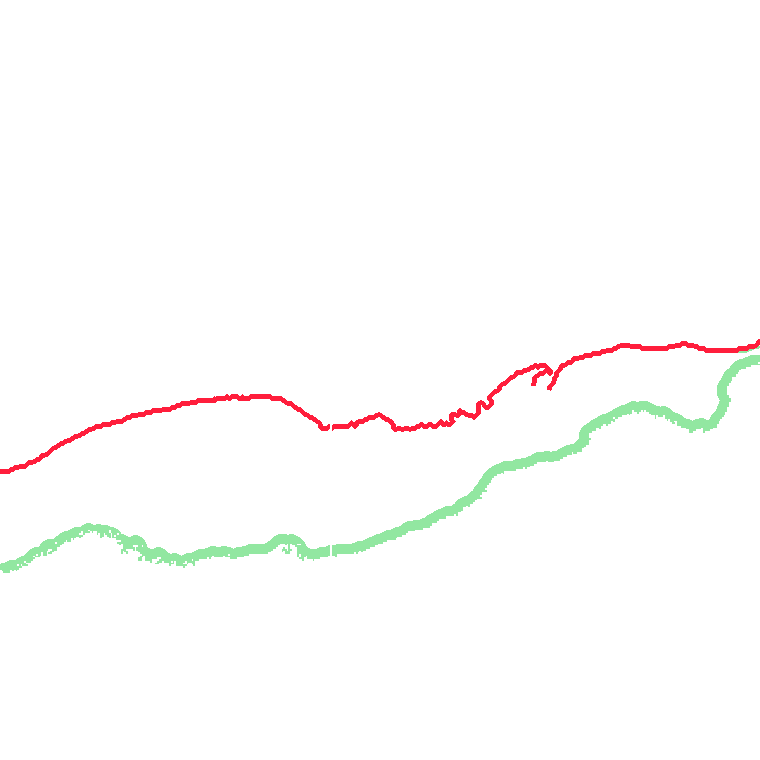
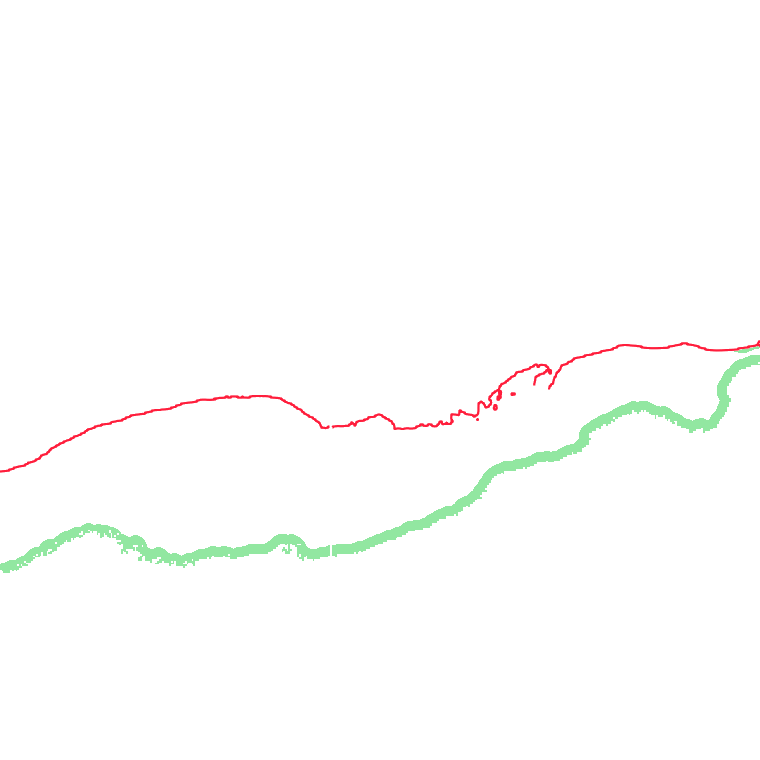
Map: draw the 12 C line as a true contour, not a dilated mask
The dilated pixel-boundary blobbed into solid red masses wherever the bottom is
complex or near-flat at the isotherm depth (the marina at high zoom). Replace it
with a real matplotlib contour of (depth - iso) at 0 — a constant-width isobath
that stays a clean thin line at any zoom. cold_line_reachable -> cold_reachable
(masks only) + isobath_line_rgba (renders the line).

Critical fix found in self-validation: the contour figure's canvas buffer is
opaque white, so compositing it wiped the green band. Now saved transparent so
only the line carries alpha. Red/green area ratio 0.94 (blob) -> 0.17-0.45 (line).
Verified on all four stretches at full and high zoom. Tests updated (+ isobath
transparency/placement). web/data rebuilt.

Claude-Session: https://claude.ai/code/session_0147ZbsWJaurVNbKbmtLAssD

diff --git a/tests/test_overlay.py b/tests/test_overlay.py
@@ -1,12 +1,17 @@
-"""Overlay-mask logic: cold/line/reachable + land-aware shore distance.
+"""Overlay-mask logic: cold/reachable + land-aware (mainland) shore distance.
 
 Synthetic fields (a sloping shore) so the invariants are exact and network-free.
-These pin the two artifact fixes: no fake offshore 'shore', and a 12 C line that
-survives a thin warm strip.
+These pin the artifact fixes: no fake offshore 'shore', reachability only near the
+mainland, castable-depth only. The 12 C line is a rendered contour (isobath_line_rgba)
+verified visually, not asserted here.
 """
 import numpy as np
 
-from tbay_fishcast.features.overlay import cold_line_reachable, land_shore_distance
+from tbay_fishcast.features.overlay import (
+    cold_reachable,
+    isobath_line_rgba,
+    land_shore_distance,
+)
 
 RES = 10.0  # m/px
 
@@ -23,12 +28,10 @@ def test_reachable_is_shallow_nearshore_only():
     depth = _sloping_shore()
     dist, land = land_shore_distance(depth, RES)
     iso = np.full_like(depth, 3.0)
-    cold, line, reach = cold_line_reachable(depth, iso, dist, cast_m=75.0,
-                                            max_reach_depth_m=22.0, min_reach_px=5)
-    # land is the mainland block; nothing reachable on land or in the warm 2 m strip
-    assert not reach[:, :5].any()
-    assert not reach[:, 5].any()               # 2 m warm strip (below the isotherm target)
-    # reachable pixels are cold, within a cast, and shallow
+    cold, reach = cold_reachable(depth, iso, dist, cast_m=75.0,
+                                 max_reach_depth_m=22.0, min_reach_px=5)
+    assert not reach[:, :5].any()              # nothing reachable on land
+    assert not reach[:, 5].any()               # nor in the 2 m warm strip (above target)
     rd = depth[reach]
     assert reach.any()
     assert rd.max() <= 22.0
@@ -39,19 +42,8 @@ def test_no_reachable_in_deep_water():
     depth = _sloping_shore(cols=40)          # extends to ~70 m depth
     dist, _ = land_shore_distance(depth, RES)
     iso = np.full_like(depth, 3.0)
-    _, _, reach = cold_line_reachable(depth, iso, dist, cast_m=75.0, max_reach_depth_m=22.0)
+    _, reach = cold_reachable(depth, iso, dist, cast_m=75.0, max_reach_depth_m=22.0)
     assert depth[reach].max() <= 22.0        # never calls 30 m+ water shore-reachable
-
-
-def test_line_marks_warm_cold_interface_even_thin():
-    depth = _sloping_shore()
-    dist, _ = land_shore_distance(depth, RES)
-    iso = np.full_like(depth, 3.0)
-    _, line, _ = cold_line_reachable(depth, iso, dist)
-    # the 3 m crossing sits between col5 (2 m, warm) and col6 (4 m, cold): the line
-    # marks that interface (thickened to a continuous stroke a few px wide)
-    assert line[:, 6].all()
-    assert not line[:, 12].any()             # not smeared far into deeper cold water
 
 
 def test_tiny_nodata_speck_is_not_land():
@@ -59,16 +51,6 @@ def test_tiny_nodata_speck_is_not_land():
     depth[0, 6] = np.nan                      # a 1 px no-data hole beside shallow water
     _, land = land_shore_distance(depth, RES, min_land_px=12)
     assert not land[0, 6]                      # too small to be shore -> no fake island
-
-
-def test_deep_warm_pinhole_makes_no_line():
-    depth = _sloping_shore()
-    depth[15, 20] = 1.0                        # a warm pinhole deep offshore (surrounded by cold)
-    dist, _ = land_shore_distance(depth, RES)
-    iso = np.full_like(depth, 3.0)
-    _, line, _ = cold_line_reachable(depth, iso, dist)
-    # the pinhole is warm but does not touch shore -> no line ring around it
-    assert not line[14:17, 19:22].any()
 
 
 def test_offshore_island_is_not_mainland_shore():
@@ -86,12 +68,28 @@ def test_offshore_island_is_not_mainland_shore():
     assert shore_main[10, 2] and shore_all[10, 2]   # the mainland is kept either way
 
 
+def test_isobath_line_is_transparent_thin_and_placed():
+    """The 12 C line renders as a THIN contour on a TRANSPARENT background at the
+    iso crossing — not an opaque fill that would wipe the green it's drawn over."""
+    depth = _sloping_shore(rows=60, cols=60)
+    dist = np.zeros((60, 60))
+    for c in range(60):
+        dist[:, c] = abs(c - 4) * RES
+    iso = np.full_like(depth, 3.0)
+    buf = isobath_line_rgba(depth, iso, dist, line_band_m=1000.0)
+    assert buf.shape == (60, 60, 4)
+    drawn = buf[:, :, 3] > 40
+    assert 0 < drawn.sum() < depth.size * 0.1        # a thin line, not a fill
+    assert (buf[:, :, 3] == 0).sum() > depth.size * 0.5   # background transparent
+    cols = np.where(drawn.any(axis=0))[0]
+    assert 4 <= cols.min() and cols.max() <= 8       # at the 3 m crossing (col5->6)
+
+
 def test_speck_removal_drops_isolated_reachable():
     depth = _sloping_shore()
     dist, _ = land_shore_distance(depth, RES)
     iso = np.full_like(depth, 3.0)
-    # force a lone reachable-looking pixel far offshore via a fake near-zero dist point
     dist2 = dist.copy()
     dist2[0, 25] = 0.0                          # 1 isolated in-range pixel in deep water
-    _, _, reach = cold_line_reachable(depth, iso, dist2, min_reach_px=20)
+    _, reach = cold_reachable(depth, iso, dist2, min_reach_px=20)
     assert not reach[0, 25]                     # single speck removed

diff --git a/src/tbay_fishcast/features/overlay.py b/src/tbay_fishcast/features/overlay.py
@@ -70,39 +70,19 @@ def land_shore_distance(depth: np.ndarray, res_m: float, *, shallow_m: float = 2
     return distance_transform_edt(~land) * res_m, land
 
 
-def cold_line_reachable(depth: np.ndarray, iso_field: np.ndarray, dist: np.ndarray, *,
-                        cast_m: float = 75.0, max_reach_depth_m: float = 22.0,
-                        min_reach_px: int = 20, line_band_m: float = 300.0):
-    """(cold, line, reachable) boolean masks for one isotherm field.
+def cold_reachable(depth: np.ndarray, iso_field: np.ndarray, dist: np.ndarray, *,
+                   cast_m: float = 75.0, max_reach_depth_m: float = 22.0,
+                   min_reach_px: int = 20):
+    """(cold, reachable) boolean masks for one isotherm field.
 
-    `dist` is distance to the (mainland) shore. Both products are confined to the
-    nearshore so harbour-interior structures and NONNA artifacts don't render:
-
-    cold      = water at/below the isotherm depth (cold water sits on the bottom).
-    line      = the target-isotherm contour within `line_band_m` of shore: cold pixels
-                bordering shallow WARM water that connects to shore (the real drop-off
-                edge), at any strip width. Not drawn where cold merely runs to shore,
-                nor at the offshore/no-data edge, nor around interpolation pinholes,
-                nor out in the lake interior.
-    reachable = cold within a cast of shore AND shallow enough to shore-fish, tiny
-                isolated specks removed.
+    `dist` is distance to the (mainland) shore. cold = water at/below the isotherm
+    depth (cold water sits on the bottom). reachable = cold within a cast of shore
+    AND shallow enough to shore-fish, with tiny isolated specks removed (fake
+    offshore "shore"). The 12 C LINE is rendered separately as a true contour
+    (`isobath_line_rgba`) so complex bathymetry gives a thin line, not a dilated blob.
     """
     water = np.isfinite(depth)
     cold = water & (depth >= iso_field)
-    warm = water & ~cold
-
-    # warm water that connects to shore (the real nearshore shelf) vs deep pinholes
-    lbl, n = label(warm)
-    shore_warm = np.zeros_like(warm)
-    for c in range(1, n + 1):
-        comp = lbl == c
-        if (binary_dilation(comp) & ~water).any():   # touches land / shore
-            shore_warm |= comp
-    line = cold & binary_dilation(shore_warm, iterations=1) & (dist <= line_band_m)
-    # the raw contour is 1 px wide, so on diagonals it staircases into dots. Thicken
-    # it to a continuous stroke (kept in water so it doesn't bleed onto land).
-    line = binary_dilation(line, iterations=2) & water & (dist <= line_band_m)
-
     reachable = cold & (dist <= cast_m) & (depth <= max_reach_depth_m)
     rl, rn = label(reachable)
     clean = np.zeros_like(reachable)
@@ -110,4 +90,45 @@ def cold_line_reachable(depth: np.ndarray, iso_field: np.ndarray, dist: np.ndarr
         comp = rl == c
         if comp.sum() >= min_reach_px:
             clean |= comp
-    return cold, line, clean
+    return cold, clean
+
+
+def isobath_line_rgba(depth: np.ndarray, iso_field: np.ndarray, dist: np.ndarray, *,
+                      line_band_m: float = 300.0, color=(255, 30, 60), linewidth: float = 1.6):
+    """The 12 C line rendered as a TRUE contour (constant width, follows the isobath).
+
+    Contouring `depth - iso_field` at 0 traces exactly where the target isotherm meets
+    the bottom. Rendered by matplotlib at a fixed line width, it stays a clean thin
+    line even where the bottom is complex or near-flat at the isotherm depth — unlike a
+    dilated pixel-boundary, which blobs up there. Confined to `line_band_m` of shore.
+    Returns an (ny, nx, 4) uint8 RGBA with the line drawn (transparent elsewhere).
+    matplotlib is imported lazily so this module stays import-light for pure use.
+    """
+    import io
+
+    import matplotlib
+    matplotlib.use("Agg")
+    import matplotlib.pyplot as plt
+    from PIL import Image
+
+    ny, nx = depth.shape
+    water = np.isfinite(depth)
+    field = np.where(water & (dist <= line_band_m), depth - iso_field, np.nan)
+    fig = plt.figure(figsize=(nx / 100.0, ny / 100.0), dpi=100)
+    ax = fig.add_axes([0, 0, 1, 1]); ax.set_axis_off()
+    ax.set_xlim(0, nx - 1); ax.set_ylim(ny - 1, 0)
+    try:
+        ax.contour(field, levels=[0.0], colors=[tuple(c / 255 for c in color)],
+                   linewidths=linewidth)
+    except Exception:  # noqa: BLE001  (no contour in this frame)
+        pass
+    # save TRANSPARENT so only the drawn line carries alpha (the canvas buffer would
+    # otherwise be opaque white and wipe everything it's composited over).
+    out = io.BytesIO()
+    fig.savefig(out, format="png", dpi=100, transparent=True)
+    plt.close(fig)
+    out.seek(0)
+    img = Image.open(out).convert("RGBA")
+    if img.size != (nx, ny):
+        img = img.resize((nx, ny), Image.NEAREST)
+    return np.asarray(img).copy()

diff --git a/scripts/build_dynamic_map.py b/scripts/build_dynamic_map.py
@@ -36,7 +36,7 @@ import matplotlib.image as mpimg  # noqa: E402
 
 from tbay_fishcast.config import load_config  # noqa: E402
 from tbay_fishcast.features import bias_live, thermocline  # noqa: E402
-from tbay_fishcast.features.overlay import cold_line_reachable, land_shore_distance, merc  # noqa: E402
+from tbay_fishcast.features.overlay import cold_reachable, isobath_line_rgba, land_shore_distance, merc  # noqa: E402
 from tbay_fishcast.ingest import basemap, glsea, lsofs_grid, nonna  # noqa: E402
 from tbay_fishcast.ingest.backfill import _open_first  # noqa: E402
 from tbay_fishcast.ingest.lsofs_extract import extract_native_columns, valid_time_from_dataset  # noqa: E402
@@ -127,10 +127,12 @@ def main(argv) -> int:
         nanmask = ~np.isfinite(iso_field)
         if nanmask.any():
             iso_field[nanmask] = griddata(iso_pts, iso_val, (gx[nanmask], gy[nanmask]), method="nearest")
-        _cold, line, reachable = cold_line_reachable(depth, iso_field, dist, cast_m=CAST_M)
+        _cold, reachable = cold_reachable(depth, iso_field, dist, cast_m=CAST_M)
         rgba = np.zeros((ny, nx, 4), dtype=np.uint8)
         rgba[reachable] = (57, 211, 83, 120)     # reachable cold water — green
-        rgba[line] = (255, 30, 60, 255)          # the 12 C line — red
+        line = isobath_line_rgba(depth, iso_field, dist)   # 12 C line as a true contour
+        lm = line[:, :, 3] > 40
+        rgba[lm] = line[lm]                       # red isobath over the green band
         frames.append({"label": f"{vt:%a %b %-d}", "lead": lead,
                        "reach_ha": round(float(reachable.sum()) * res * res / 1e4, 1),
                        "png": _png_b64(rgba)})

diff --git a/scripts/build_coast_site.py b/scripts/build_coast_site.py
@@ -37,7 +37,7 @@ import forecast_window as fw  # noqa: E402
 from tbay_fishcast.config import load_config  # noqa: E402
 from tbay_fishcast.features import bias_live, thermocline  # noqa: E402
 from tbay_fishcast.features.forecast import summarize  # noqa: E402
-from tbay_fishcast.features.overlay import cold_line_reachable, land_shore_distance, merc  # noqa: E402
+from tbay_fishcast.features.overlay import cold_reachable, isobath_line_rgba, land_shore_distance, merc  # noqa: E402
 from tbay_fishcast.ingest import glsea, lsofs_grid, nonna  # noqa: E402
 from tbay_fishcast.ingest.backfill import _open_first  # noqa: E402
 from tbay_fishcast.ingest.lsofs_extract import extract_native_columns, valid_time_from_dataset  # noqa: E402
@@ -132,11 +132,13 @@ def _overlay(depth, water, dist, gx, gy, inbox, node_xy, cols, g_sst, bias):
     nan = ~np.isfinite(iso)
     if nan.any():
         iso[nan] = griddata(iso_pts, iso_val, (gx[nan], gy[nan]), method="nearest")
-    _cold, line, reachable = cold_line_reachable(depth, iso, dist, cast_m=CAST_M)
+    _cold, reachable = cold_reachable(depth, iso, dist, cast_m=CAST_M)
     ny, nx = depth.shape
     rgba = np.zeros((ny, nx, 4), dtype=np.uint8)
     rgba[reachable] = (57, 211, 83, 140)     # reachable cold water — green
-    rgba[line] = (255, 30, 60, 255)          # the 12 C line — red
+    line = isobath_line_rgba(depth, iso, dist)   # the 12 C line as a true contour
+    lm = line[:, :, 3] > 40
+    rgba[lm] = line[lm]                       # red isobath over the green band
     return rgba, float(reachable.sum())  # caller scales pixel count by res^2 for ha
 
 
